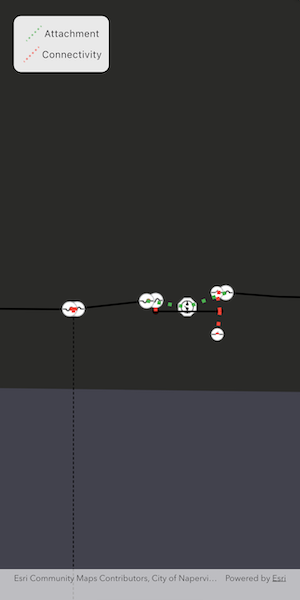
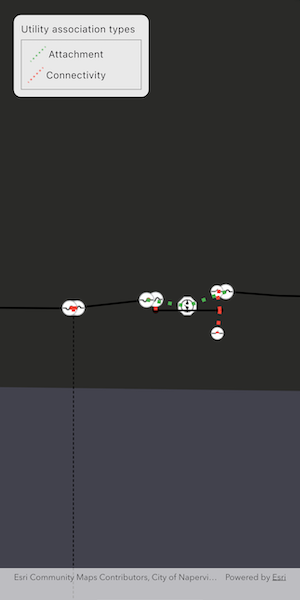
add some styling to the legend

diff --git a/lib/samples/show_utility_associations/show_utility_associations.dart b/lib/samples/show_utility_associations/show_utility_associations.dart
@@ -114,20 +114,34 @@ class _ShowUtilityAssociationsState extends State<ShowUtilityAssociations>
                   padding: const EdgeInsets.all(10),
                   child: Column(
                     mainAxisSize: MainAxisSize.min,
+                    crossAxisAlignment: CrossAxisAlignment.start,
+                    spacing: 5,
                     children: [
-                      Row(
-                        mainAxisSize: MainAxisSize.min,
-                        children: [
-                          SwatchImage(symbol: _attachmentSymbol),
-                          const Text('Attachment'),
-                        ],
-                      ),
-                      Row(
-                        mainAxisSize: MainAxisSize.min,
-                        children: [
-                          SwatchImage(symbol: _connectivitySymbol),
-                          const Text('Connectivity'),
-                        ],
+                      const Text('Utility association types'),
+                      Container(
+                        decoration: BoxDecoration(
+                          border: Border.all(color: Colors.grey),
+                        ),
+                        padding: const EdgeInsets.fromLTRB(5, 5, 50, 5),
+                        child: Column(
+                          mainAxisSize: MainAxisSize.min,
+                          children: [
+                            Row(
+                              mainAxisSize: MainAxisSize.min,
+                              children: [
+                                SwatchImage(symbol: _attachmentSymbol),
+                                const Text('Attachment'),
+                              ],
+                            ),
+                            Row(
+                              mainAxisSize: MainAxisSize.min,
+                              children: [
+                                SwatchImage(symbol: _connectivitySymbol),
+                                const Text('Connectivity'),
+                              ],
+                            ),
+                          ],
+                        ),
                       ),
                     ],
                   ),
